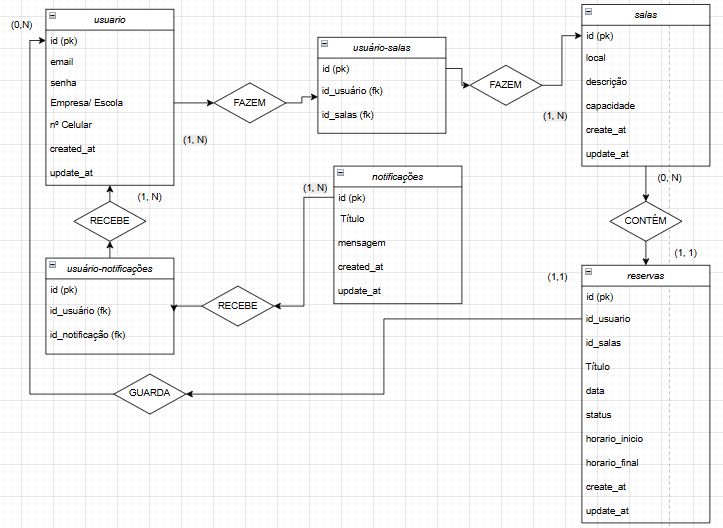
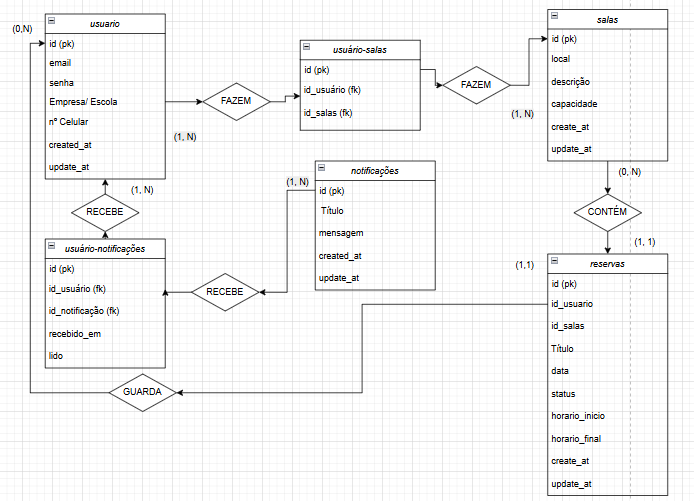
finalização do WAD com a seção 3.1 feito

Changed region(s): [[0.0, 0.0, 0.9986, 1.0]]

diff --git a/documents/wad.md b/documents/wad.md
@@ -93,7 +93,239 @@ Primeiro será explicado cada entidade e depois a relação entre elas para fica
 <br> <sub>Fonte: Autoral (2025)</sub> </p>
 &emsp;&emsp; Aqui explicarei as relações entre todas as entidades presentes no diagrama. 
 
-##### Relacionamento 
+### Relação entre "usuario" e "reserva" (via relacionamento N:N "FAZEM")
+&emsp;&emsp;Descrição da Relação: A relação "FAZEM" entre "usuario" e "sala" é de natureza muitos-para-muitos (N:N), pois um usuário pode fazer várias reservas e uma sala pode estar associada a várias reservas feitas por diferentes usuários. Essa relação é materializada pela entidade "reserva", que serve como uma tabela intermediária para armazenar o histórico de reservas solicitadas por cada usuário.
+
+&emsp;&emsp;Lógica: Cada registro em "reserva" está vinculado a um "id_usuario" (chave estrangeira) e a um "id_salas" (outra chave estrangeira), indicando quem solicitou a reserva e qual sala foi reservada. O histórico é mantido por meio dos atributos "título", "data", "horário_início" e "horário_final", permitindo rastrear todas as solicitações de reservas de um usuário ao longo do tempo. Isso é útil para auditoria, planejamento ou reaproveitamento de informações em futuras reservas.
+
+### Relação entre "usuario" e "notificações" (via relacionamento 1:N "RECEBE")
+&emsp;&emsp;Descrição da Relação: A relação "RECEBE" é de um-para-muitos (1:N), onde um único "usuario" (identificado por "id") pode receber múltiplas "notificações" (identificadas por "id"). Isso é indicado pela chave estrangeira "id_usuario" na entidade "notificações".
+
+&emsp;&emsp;Lógica: As notificações são geradas para informar o usuário sobre eventos relacionados ao sistema, como confirmação de reservas, lembretes de horários, cancelamentos ou atualizações de salas. Por exemplo, quando um usuário solicita uma reserva, o sistema pode enviar uma notificação com o título e a mensagem detalhando a aprovação ou rejeição. O atributo "created_at" em "notificações" ajuda a manter um registro temporal dessas comunicações, permitindo que o usuário acompanhe todas as mensagens recebidas.
+
+### Relação entre "sala" e "reserva" (via relacionamento 1:N "CONTÉM")
+&emsp;&emsp;Descrição da Relação: A relação "CONTÉM" é de um-para-muitos (1:N), onde uma "sala" (identificada por "id") pode estar associada a várias "reservas" (identificadas por "id"), enquanto cada reserva está vinculada a apenas uma sala (via "id_salas" como chave estrangeira).
+
+&emsp;&emsp;Lógica: Essa relação reflete o uso de uma sala específica para múltiplas reservas ao longo do tempo. Por exemplo, uma sala pode ser reservada para uma reunião hoje e para um treinamento amanhã. Os atributos "data", "horário_início" e "horário_final" em "reserva" garantem que não haja sobreposições de horários, permitindo um gerenciamento eficiente do uso das salas. Isso também facilita relatórios sobre a ocupação de cada sala.
+
+### Relação auto-referencial em "usuario-notificações" (via relacionamento "GUARDA")
+&emsp;&emsp;Descrição da Relação: A relação "GUARDA" parece ser uma auto-relação dentro do contexto de "usuario" e "notificações", sugerindo que um usuário pode estar associado a notificações de forma hierárquica ou de armazenamento. No entanto, como o diagrama mostra "usuario-notificações" como uma entidade intermediária com "id_usuario" e "id_notificações", pode indicar que as notificações são "guardadas" ou gerenciadas por um usuário específico, possivelmente um administrador.
+
+&emsp;&emsp;Lógica: Essa relação pode ser usada para permitir que um usuário (como um gestor) gerencie ou arquive notificações enviadas a outros usuários. Por exemplo, um administrador pode receber e armazenar notificações sobre todas as reservas realizadas no sistema para fins de supervisão, com os atributos "título" e "mensagem" fornecendo detalhes sobre cada notificação arquivada, e "created_at" registrando quando foi gerada
+
+
+## Modelo Físico da MER.
+
+&emsp;&emsp;&emsp;&emsp; Aqui será explicado o código colocado no arquivo .sql para criar as tabelas no banco de dados.
+
+<p align="center">Código da Lógica de Criar ID Aleatórios. </p>
+<p align="center"> <img src="../assets/assetsWAD/código_ID.png">
+<br> <sub>Fonte: Autoral (2025)</sub> </p>
+
+### Explicação:
+
+CREATE EXTENSION: Instala a extensão "uuid-ossp" no PostgreSQL, que adiciona funções para gerar UUIDs (identificadores únicos).
+
+IF NOT EXISTS: Evita erros ao executar o comando caso a extensão já esteja instalada.
+"uuid-ossp": Nome da extensão que fornece funções como uuid_generate_v4() para criar UUIDs aleatórios.
+
+Propósito:
+Ativa a extensão "uuid-ossp" para gerar UUIDs, úteis como chaves primárias (ex.: "id" em "usuario", "sala", "reserva"), garantindo unicidade global.
+
+<p align="center">Código Automatizador. </p>
+<p align="center"> <img src="../assets/assetsWAD/código_otimizacao.png">
+<br> <sub>Fonte: Autoral (2025)</sub> </p>
+
+### Explicação:
+
+CREATE INDEX: Cria índices em colunas específicas para acelerar buscas, junções e ordenações. Cada índice é nomeado (ex.: idx_usuario_salas_usuario_id) e associado a uma coluna (ex.: id_usuario) em uma tabela (ex.: usuario_salas).
+
+Exemplo Representativo: O índice idx_reservas_usuario_id ON reservas(id_usuario) acelera consultas que filtram reservas por usuário, como buscar todas as reservas feitas por um "id_usuario" específico. Esse padrão se aplica aos demais índices, que otimizam buscas por "id_usuario" ou "id_salas" em "usuario_salas", "reservas" e "usuario_notificacao", ou por "id_notificacao" em "usuario_notificacao".
+
+Propósito:
+Os índices melhoram a eficiência de consultas no sistema de reservas de salas, acelerando buscas e filtros por "id_usuario", "id_salas" e "id_notificacao" nas tabelas "usuario_salas", "reservas" e "usuario_notificacao", especialmente em cenários de alto volume de dados.
+
+<p align="center">Código da Criação da Tabela Usuários. </p>
+<p align="center"> <img src="../assets/assetsWAD/código_tabela_usuario.png">
+<br> <sub>Fonte: Autoral (2025)</sub> </p>
+
+
+Descrição:
+Armazena as informações dos usuários cadastrados no sistema, como dados de login, contato e afiliação institucional.
+
+Campos:
+
+id: Identificador único do usuário (UUID gerado automaticamente).
+
+email: Endereço de e-mail do usuário. É obrigatório e único, servindo como login principal.
+
+senha: Senha de acesso ao sistema. Campo obrigatório.
+
+empresa_escola: Nome da empresa ou escola vinculada ao usuário (opcional).
+
+numero_celular: Número de telefone celular do usuário (opcional).
+
+created_at: Data e hora de criação do registro, gerada automaticamente.
+
+update_at: Data e hora da última atualização do registro.
+
+Regras e Integridade:
+
+O campo email possui a restrição UNIQUE para impedir duplicidade de contas.
+
+Timestamps automáticos garantem o rastreamento de criação e atualização dos dados.
+
+<p align="center">Código da Criação da Tabela Usuários-Salas. </p>
+<p align="center"> <img src="../assets/assetsWAD/código_tabela_usuario-salas.png">
+<br> <sub>Fonte: Autoral (2025)</sub> </p>
+
+
+Descrição:
+Tabela de junção que representa a relação N:N entre usuários e salas, ou seja, quais usuários estão associados a quais salas.
+
+Campos:
+
+id: Identificador único da associação (UUID gerado automaticamente).
+
+id_usuario: Referência ao id do usuário. A exclusão em cascata remove o relacionamento caso o usuário seja deletado.
+
+id_salas: Referência ao id da sala. Também utiliza exclusão em cascata para manter a integridade.
+
+UNIQUE(id_usuario, id_salas): Garante que a mesma combinação usuário-sala não seja registrada mais de uma vez, evitando duplicações.
+
+Regras e Integridade:
+
+Esta tabela funciona como uma ponte entre usuario e salas, viabilizando o relacionamento muitos-para-muitos.
+
+As cláusulas ON DELETE CASCADE mantêm o banco de dados limpo ao excluir automaticamente vínculos inválidos.
+
+
+<p align="center">Código da Criação da Tabela Usuários-Notificações. </p>
+<p align="center"> <img src="../assets/assetsWAD/código_tabela_usuario-notificacao.png">
+<br> <sub>Fonte: Autoral (2025)</sub> </p>
+
+
+Descrição:
+Registra a relação N:N entre usuários e notificações, representando quais notificações foram enviadas para quais usuários (relação RECEBE).
+
+Campos:
+
+id: Identificador único (UUID gerado automaticamente).
+
+id_usuario: Referência ao usuário que recebeu a notificação. Caso o usuário seja deletado, a notificação associada também será removida (ON DELETE CASCADE).
+
+id_notificacao: Referência à notificação recebida. Também possui ON DELETE CASCADE para remoção automática.
+
+recebido_em: Data e hora em que a notificação foi registrada como recebida (timestamp automático).
+
+lido: Indica se a notificação foi lida (FALSE por padrão).
+
+Regras e Integridade:
+
+UNIQUE(id_usuario, id_notificacao): Garante que cada usuário receba uma notificação apenas uma vez, evitando duplicidade.
+
+As chaves estrangeiras e exclusões em cascata ajudam a manter o banco limpo e consistente, mesmo com remoções de usuários ou notificações.
+
+
+<p align="center">Código da Criação da Tabela Notificação. </p>
+<p align="center"> <img src="../assets/assetsWAD/código_tabela_notificacao.png">
+<br> <sub>Fonte: Autoral (2025)</sub> </p>
+
+
+Descrição:
+Armazena as notificações geradas pelo sistema para envio aos usuários.
+
+Campos:
+
+id: Identificador único da notificação (UUID gerado automaticamente).
+
+titulo: Título da notificação, obrigatório.
+
+mensagem: Conteúdo da notificação, obrigatório.
+
+created_at: Data e hora de criação da notificação (definido automaticamente).
+
+update_at: Data e hora da última atualização (também automática).
+
+Utilização:
+
+Esta tabela centraliza as mensagens que serão posteriormente associadas aos usuários por meio da tabela de junção usuario_notificacao.
+
+Pode ser usada para exibir alertas, lembretes ou confirmações personalizadas no sistema.
+
+<p align="center">Código da Criação da Tabela Salas. </p>
+<p align="center"> <img src="../assets/assetsWAD/código_tabela_salas.png">
+<br> <sub>Fonte: Autoral (2025)</sub> </p>
+
+
+Descrição:
+Armazena os dados das salas disponíveis para reserva no sistema.
+
+Campos:
+
+id: Identificador único da sala (UUID gerado automaticamente).
+
+local: Localização da sala, obrigatório.
+
+descricao: Informações adicionais sobre a sala (ex: tipo, recursos, etc.).
+
+capacidade: Quantidade máxima de pessoas permitidas na sala (obrigatório e deve ser maior que zero).
+
+create_at: Data e hora de criação do registro.
+
+update_at: Data e hora da última atualização.
+
+Utilização:
+
+Utilizada como base para o processo de reserva.
+
+Vinculada a usuários e reservas por meio das tabelas usuario_salas e reservas.
+
+Garante controle de capacidade mínima com a restrição CHECK(capacidade > 0).
+
+<p align="center">Código da Criação da Tabela Reservas. </p>
+<p align="center"> <img src="../assets/assetsWAD/código_tabela_reservas.png">
+<br> <sub>Fonte: Autoral (2025)</sub> </p>
+
+
+Descrição:
+Registra as reservas feitas por usuários para salas específicas no sistema.
+
+Campos:
+
+id: Identificador único da reserva (UUID gerado automaticamente).
+
+id_usuario: Referência ao usuário que fez a reserva (chave estrangeira com exclusão em cascata).
+
+id_salas: Referência à sala reservada (chave estrangeira com restrição de exclusão).
+
+titulo: Breve descrição ou nome da reserva.
+
+data: Data da reserva (obrigatória).
+
+horario_inicio: Horário de início da reserva (obrigatório).
+
+horario_final: Horário de término da reserva (obrigatório).
+
+create_at: Data e hora de criação do registro.
+
+update_at: Data e hora da última atualização.
+
+Regras e Restrições:
+
+CHECK (horario_final > horario_inicio): Garante que o horário final seja posterior ao horário inicial.
+
+ON DELETE CASCADE para id_usuario: se o usuário for deletado, suas reservas também são.
+
+ON DELETE RESTRICT para id_salas: impede deletar uma sala com reservas vinculadas.
+
+Utilização:
+
+Serve como o principal controle de agendamento do sistema.
+
+Garante integridade temporal e referencial entre usuários e salas.
+
+---
 
 ### 3.1.1 BD e Models (Semana 5)
 *Descreva aqui os Models implementados no sistema web*

diff --git a/readme.md b/readme.md
@@ -75,9 +75,31 @@ O Sistema de Reservas de Salas é uma aplicação web desenvolvida para facilita
 3. Faça login ou registre-se para começar a usar o sistema.
 
 ## Estrutura do Projeto
-
-[Deixado em branco conforme sua solicitação. Você pode adicionar sua própria estrutura de pastas aqui.]
-
+```bash
+📁 .vscode                  # Configurações específicas do VS Code (como launch.json, settings.json)
+📁 assets                  # Recursos estáticos como imagens e ícones
+    📁 assetsWAD           # Subpasta específica de recursos (possivelmente relacionados a "Web App Design")
+📁 config                  # Arquivos de configuração da aplicação (ex: conexões com o banco)
+📁 controllers             # Lógica de controle entre rotas e modelos (MVC)
+📁 documents               # Documentos auxiliares do projeto
+📁 models                  # Modelos de dados (MVC) e definição de esquemas
+📁 node_modules            # Módulos e dependências instaladas via npm
+📁 routes                  # Definições das rotas da aplicação
+📁 scripts                 # Scripts utilitários e auxiliares
+📁 services                # Lógica de serviços como autenticação, integração com APIs, etc.
+📁 site-projeto-individual # Diretório contendo arquivos do projeto principal ou módulos específicos
+📁 styles                  # Arquivos de estilo CSS
+📁 tests                   # Testes automatizados do projeto
+📄 .env                    # Variáveis de ambiente (configurações sensíveis)
+📄 .env.example            # Exemplo do arquivo .env para configuração
+📄 .gitignore              # Arquivos e pastas ignorados pelo Git
+📄 jest.config.js          # Configuração do framework de testes Jest
+📄 package-lock.json       # Registro de versões exatas das dependências instaladas
+📄 package.json            # Arquivo principal de configuração do projeto Node.js
+📄 readme.md               # Documentação geral do projeto
+📄 rest.http               # Arquivo de testes de requisições REST (usado com VS Code REST Client)
+📄 server.js               # Arquivo principal do servidor backend
+```
 ## Contribuição
 
 1. Faça um fork do repositório.  
